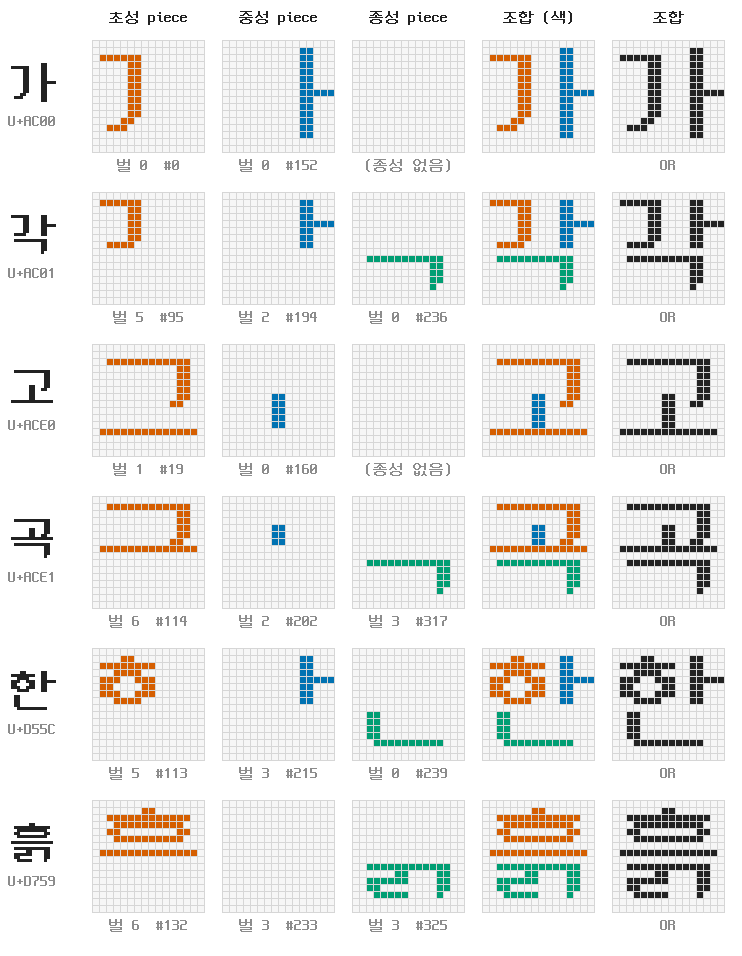
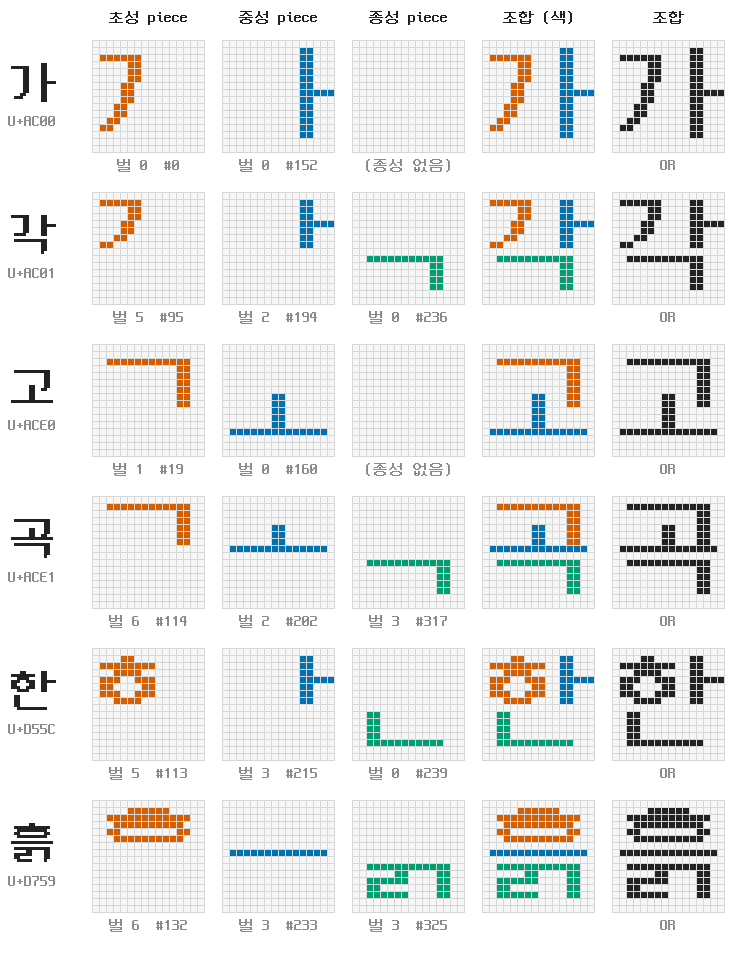
WIP docs/jamo-sets: Unicode, encoding forms, IoU, SANS8J (iolo 8x4x4, OFL/MIT) as the worked example (GPT-SOL, t_9de1eebd)

diff --git a/tools/doc_figures_jamo.py b/tools/doc_figures_jamo.py
@@ -3,9 +3,9 @@
 
   python3 -I tools/doc_figures_jamo.py [--out DIR] [--check]
 
-Reads two SIL OFL 1.1 faces of svf/ and nothing else: svf/dos/NEODG16A.SVF (Neo Dunggeunmo, a 16x16 1 bpp jamo set in
-the 8x4x4 layout, JSET version 1) and svf/dos/NEODG16.SVF (the same font precomposed, 16x16 1 bpp, ASCII and
-KS X 1001 without Hanja). Every label is drawn with NEODG16's own glyphs, so no system font is read. No Apple or ROM
+Reads two SIL OFL 1.1 faces of svf/ and nothing else: svf/iolo/SANS8J.SVF (Neo Dunggeunmo, a 16x16 1 bpp jamo set in
+the 8x4x4 layout, JSET version 1) and svf/dos/NEODG16.SVF (the comparison face is Neo Dunggeunmo precomposed, 16x16 1 bpp, ASCII and
+KS X 1001 without Hanja). Labels use the comparison face glyphs, so no system font is read. No Apple or ROM
 data is read: the figures may be published with the faces' OFL notes (svf/dos/NEODGM.TXT, svf/dos/OFL.TXT).
 
 Writes into DIR (default docs/images/jamo-sets/):
@@ -35,7 +35,7 @@ try:
 except ImportError:  # pragma: no cover
     Image = ImageDraw = None
 
-JAMO_FACE = "svf/dos/NEODG16A.SVF"
+JAMO_FACE = "svf/iolo/SANS8J.SVF"
 PRE_FACE = "svf/dos/NEODG16.SVF"
 ALLOWED = (JAMO_FACE, PRE_FACE)  # OFL faces only (web/LICENCES.tsv: dos/NEODG*)
 
@@ -392,7 +392,7 @@ def main(argv=None):
         return 2
     fc, out = render_all()
     n, exact, iou = compare(fc)
-    print(f"KS X 1001 syllables {n}: NEODG16A composes {exact} exactly like NEODG16, mean IoU {iou:.4f}")
+    print(f"KS X 1001 syllables {n}: SANS8J composes {exact} exactly like comparison face, mean IoU {iou:.4f}")
     bad = 0
     for name, data in out.items():
         path = os.path.join(a.out, name)

diff --git a/docs/jamo-sets.md b/docs/jamo-sets.md
@@ -20,9 +20,8 @@ This document covers, in order:
 4. The constraints on small-memory targets (MCUs): readers per build, code size, table size, blocks a build cannot read,
    streaming, speed, and how to choose (chapters 7-8).
 
-**Figure faces.** Every pixel figure is drawn from `svf/dos/NEODG16A.SVF` (Neo Dunggeunmo, 16x16 1 bpp, an 8x4x4 jamo set,
-JSET version 1) and `svf/dos/NEODG16.SVF` (the same font precomposed). Both are SIL OFL 1.1 (`svf/dos/NEODGM.TXT`, the row
-`dos/NEODG*` of `web/LICENCES.tsv`). `python3 -I tools/doc_figures_jamo.py` makes them; it writes the same bytes on every
+**Figure faces.** Every pixel figure is drawn from `svf/iolo/SANS8J.SVF` (iolo SANS8J Gothic, 16x16 1 bpp, an original 8x4x4 jamo set,
+JSET version 1) and `svf/dos/NEODG16.SVF` (the same font precomposed). SANS8J is from iolo 8x4x4-fonts under OFL-1.1/MIT (`svf/iolo/IOLO.TXT`). `python3 -I tools/doc_figures_jamo.py` makes them; it writes the same bytes on every
 run, and `--check` verifies that.
 
 ## Contents
@@ -91,6 +90,33 @@ ISO 2022's primary set is G0; auxiliary sets are G1–G3. EUC uses SS2 (0x8E) an
 | EUC-KR 0xA1–0xFE × 0xA1–0xFE | KS X 1001 94×94 table | 2,350 Hangul syllables |
 | CP949 extension 0x81–0xC6 × (0x41–0x5A, 0x61–0x7A, 0x81–0xFE) | additional 8,822 syllables | outside EUC-KR pairs |
 | Johab (CP1361) | composed-form fields | not an ISO 2022/EUC encoding |
+
+### 1.1.2 Unicode and encoding forms
+
+Unicode defines code points U+0000..U+10FFFF. Its 17 planes are numbered 0..16: plane 0 is the BMP (U+0000..U+FFFF), and planes 1..16 are supplementary planes. ISO/IEC 10646 (UCS) standardizes the same characters and code points; Unicode and UCS maintain that repertoire jointly. Planes 15 and 16 contain private-use areas. SVF jamo pieces use private-use code points U+F0000+n in plane 15, which are not interpreted as ordinary characters.
+
+Hangul has both models. Precomposed syllables occupy U+AC00..U+D7A3 (11,172), laid out by the arithmetic formula in section 1.3. Conjoining jamo use three characters from Hangul Jamo U+1100..U+11FF: 한 is U+1112 U+1161 U+11AB. Hangul Compatibility Jamo U+3131..U+318E are standalone compatibility letters, as used by KS X 1001; Hangul Jamo Extended-A and Extended-B contain Old Hangul jamo. An L·V·T sequence and its precomposed syllable are canonically equivalent. NFC composes L·V·T and NFD decomposes the syllable [11].
+
+An SVF syllable face is keyed by U+AC00..U+D7A3. A conjoining sequence arriving in UTF-8 must be normalized to NFC or shaped before lookup; otherwise three code points do not select one syllable glyph.
+
+Encoding forms turn code points into bytes. UCS-2 stores only the BMP in 16 bits; UTF-16 uses surrogate pairs for planes 1..16 (U+F0000 therefore needs a pair). UCS-4/UTF-32 stores every code point in 32 bits. UTF-8 uses 1–4 self-synchronizing bytes and remains ASCII-compatible. UTF-16LE/BE and UTF-32 specify byte order; a BOM (U+FEFF) can signal that order [12][13].
+
+| Character | EUC-KR | CP949 | Johab | UTF-8 | UTF-16LE | UTF-16BE | UTF-32 | Cannot represent |
+|---|---|---|---|---|---|---|---|---|
+| A U+0041 | 41 | 41 | 41 | 41 | 41 00 | 00 41 | 41 00 00 00 | — |
+| 한 U+D55C | C7 D1 | C7 D1 | D0 65 | ED 95 9C | 5C D5 | D5 5C | 5C D5 00 00 | — |
+| ㄱ U+3131 | A4 A1 | A4 A1 | 88 41 | E3 84 B1 | 31 31 | 31 31 | 31 31 00 00 | — |
+| 한 (LVT) U+1112 U+1161 U+11AB | — | — | — | E1 84 92 E1 85 A1 E1 86 AB | 12 11 61 11 AB 11 | 11 12 11 61 11 AB | 12 11 00 00 61 11 00 00 AB 11 00 00 | EUC-KR, CP949, Johab |
+| U+F0000 | — | — | — | F3 B0 80 80 | 80 DB 00 DC | DB 80 DC 00 | 00 00 0F 00 | EUC-KR, CP949, Johab |
+
+```mermaid
+flowchart LR
+  C["character: 한 or LVT"] --> P["code points<br/>U+D55C or U+1112 U+1161 U+11AB"]
+  P --> F["encoding form<br/>EUC, CP949, UTF-8, UTF-16, UTF-32"]
+  F --> B["bytes"]
+  B --> S["SVF input<br/>UTF-8 text → svf_draw_utf8 → code points"]
+  S --> V["lookup U+AC00..U+D7A3<br/>or normalize/shape first"]
+```
 
 ### 1.2 The bit layout of the 16-bit johab code
 
@@ -221,7 +247,7 @@ johab font is **360 pieces x 32 bytes = 11,520 bytes** (`notes/dos.md` "Format f
 The piece file sizes are in `notes/dos.md`; the precomposed columns are syllables x cell bytes. SVF shows the same thing:
 for Neo Dunggeunmo at 16 px the precomposed `NEODG16.SVF` is 133,720 bytes (2,905 glyphs: 95 ASCII, 2,803 KS X 1001
 characters, and 7 syllables outside KS, 갷 닏 떄 섥 슺 텊 햝; the KS characters include U+212B Å of KS row A1, which the
-source TTF lacks: `tools/build/faces.tsv`), and the 8x4x4 jamo set `NEODG16A.SVF` is **16,408 bytes** (440 glyphs, 344 of them pieces) and
+source TTF lacks: `tools/build/faces.tsv`), and the 8x4x4 jamo set `SANS8J.SVF` is **15,740 bytes** (439 glyphs, 344 pieces) and
 draws all 11,172 (read with `jamoset.parse_svfn`, as `tools/doc_figures_jamo.py` does).
 
 ### 2.2 Sets: a jamo's shape depends on where it sits
@@ -257,15 +283,15 @@ flowchart LR
 One set is 640 bytes of initials (20 x 32), 704 of medials (22 x 32), 896 of finals (28 x 32) (the same note). The last box
 (copy to the screen) is this document's; the note covers the steps up to the OR.
 
-![가 각 고 곡 한 흙: initial (vermillion), medial (blue) and final (green) pieces and their OR; NEODG16A, one square = one pixel](images/jamo-sets/compose.png)
+![가 각 고 곡 한 흙: initial (vermillion), medial (blue) and final (green) pieces and their OR; SANS8J, one square = one pixel](images/jamo-sets/compose.png)
 
-*Figure 1. Pieces and composition in NEODG16A. "벌 n #p" is the piece's set and its SVF piece number (chapter 4). The ㄱ of
+*Figure 1. Pieces and composition in SANS8J. "벌 n #p" is the piece's set and its SVF piece number (chapter 4). The ㄱ of
 가 and 각 (sets 0 and 5) and of 고 and 곡 (sets 1 and 6) changes with the final; the ㅗ of 고 and 곡 is a different piece
 too (medial sets 0 and 2: without and with a final). The medial piece 233 of 흙 is empty: fitting this face put ㅡ's stroke
 into the initial piece 132 (section 4.3). Column headings: 초성 = initial, 중성 = medial, 종성 = final, 조합 (색) =
 composed (in colour), 조합 = composed; "벌 n" = set n, "(종성 없음)" = no final.*
 
-One 16x16 cell split into its pieces (NEODG16A's 한: `I` initial piece 113, `M` medial piece 215, `F` final piece 239,
+One 16x16 cell split into its pieces (SANS8J's 한: `I` initial piece 113, `M` medial piece 215, `F` final piece 239,
 `.` blank; no pixel is shared):
 
 ```
@@ -358,11 +384,11 @@ flowchart TD
 ```
 
 "ㄱ or ㅋ" is `KK = (0, 15)`; as its comment says, "gg is NOT in the group" (ㄲ is not). `tools/doc_figures_jamo.py` checks,
-while drawing figure 2, that each example syllable really uses that set in NEODG16A's tables.
+while drawing figure 2, that each example syllable really uses that set in SANS8J's tables.
 
 ![the initial ㄱ in its 8 sets, the medials ㅏ and ㅗ in their 4 sets, the final ㄱ in its 4 sets, each with a syllable that uses it](images/jamo-sets/sets.png)
 
-*Figure 2. NEODG16A's sets. The initial ㄱ differs in every set. The medial ㅏ is shorter with a final (sets 2, 3); in this
+*Figure 2. SANS8J's sets. The initial ㄱ differs in every set. The medial ㅏ is shorter with a final (sets 2, 3); in this
 font ㅏ has the same bitmap after ㄱ/ㅋ (sets 0, 2) as after the others (1, 3), and ㅗ does not. The final ㄱ has the same
 bitmap in sets 1 and 3. Labels: 초성 = initial, 중성 = medial, 종성 = final, 벌 = set. Equal bitmaps still have their own
 piece numbers: of the 344 pieces, 270 bitmaps are distinct
@@ -416,7 +442,7 @@ systems by its own rule (chapter 4).
 - **IBM PC DOS HBIOS V3.0**: `$KGOZN16`/`$KMYZN16` are 360 x 32-byte 8x4x4 sets; `$KMYZN24` is a 360-piece set plus the
   2,350 precomposed syllables (`notes/os.md`).
 - **Dokkaebi**: `DKBBG.FNT` (15,584 bytes) is an 11,520-byte 8x4x4 set plus 127 symbols, and the driver `DKBB.COM` holds
-  the same bytes at offset 96 (`notes/hanme-dokkaebi.md` section 2). The repository finds the font inside the driver and
+  the same bytes at offset 96 (`notes/hanme-dokkaebi.md` section 2). Driver analysis finds the font inside the driver and
   makes a jamo set of it (`docs/recipes.md` "Dokkaebi: the font inside the driver"). The DKB3 form (912 glyphs) stores the
   initial+medial pairs precomposed and ORs only the final: fewer overlays, more glyphs (the same note, 2.1).
 - **NKP** (a Hercules TSR, 1989) stores only the rows a piece needs, not the full cell, saving bytes; each piece record
@@ -426,14 +452,14 @@ systems by its own rule (chapter 4).
 
 The three Korean VGA cards of the 86Box ROM set (Trigem, Kasan, ATI) each have a 512 KB KS C 5601 font ROM of 16,384
 32-byte slots, a 128 x 128 grid: **a precomposed grid**, not a johab font; 가 is slot 0x1821 (`docs/recipes.md` "Korean VGA
-font ROMs (86Box)"). The repository can fit an 8x4x4 jamo set to that precomposed face, but many syllables are not drawn
+font ROMs (86Box)"). The tools can fit an 8x4x4 jamo set to that precomposed face, but many syllables are not drawn
 as an OR of pieces, and the IoU stays at 0.968 / 0.872 / 0.919. Korean MS-DOS 6.22 is the opposite case: its font file
 `HFONT.SYS` has no syllables and HBIOS composes them from its own jamo set (section 1.4).
 
 ### 3.3 Mac: rules (HangulTalk 1.0) and a table (HangulTalk 7.1.x)
 
 - **HangulTalk 1.0** (System 4.1) `fbit` fonts (Gotic12, Munjo12/16/24) hold 45 glyph sets; the composition rule is the
-  18 selection tables of the 68k 'fdef' driver (`notes/mac.md` "Format 1"). That is a rule. The repository's
+  18 selection tables of the 68k 'fdef' driver (`notes/mac.md` "Format 1"). That is a rule. The project's
   `--layout mac-fbit-45sets` moves it into a JSET as it is: Munjo24 gives 653 pieces, 8 lead x 4 tail classes, 20/15/4
   sets, 36,660 bytes, and all 11,172 syllables equal that rule (`docs/recipes.md` "Classic Mac Korean bitmap fonts").
 - **HangulTalk 7.1.x** Seoul12, AppleGothic12/24 and AppleMyungjo12/24 are `fbit` type 3: 482 glyphs (2 banks x 241) and
@@ -475,7 +501,7 @@ cannot be composed.
 - **Daewoo MSX CPC-300/400S**: the upper 16 KB of the extension ROM hold 6 initial sets x 20, 2 medial sets x 28 and
   2 final sets x 29 pieces, the selection read from the Hangul BASIC ROM routine (`notes/msx.md`).
 - **OS/2 Warp 4 Korean** system DBCS fonts hold the precomposed set (all of KS X 1001), compressed with a Huffman code and
-  a prediction (`notes/os2-dbcs.md`); the repository decodes them into a precomposed face and fits jamo sets to it
+  a prediction (`notes/os2-dbcs.md`); the tools decode them into a precomposed face and fits jamo sets to it
   (`docs/recipes.md` "OS/2 Korean fonts (완성형) to a precomposed face and a jamo set").
 
 ## 4. Jamo sets in SVF: JSET version 1
@@ -513,14 +539,14 @@ The JSET block is where the SVFN header's bytes 36 (offset) and 40 (size) say; h
 values are little-endian (`spec/SVF.md` "Jamo-set fonts").
 
 Where the JSET sits in a whole SVFN file. The header's offset fields point at each table; their order may differ between
-files. The numbers in brackets are NEODG16A's (16,408 bytes; `spec/SVF.md` "Cells, layout bytes and reserved bytes"; the
+files. The numbers in brackets are SANS8J's (15,740 bytes; `spec/SVF.md` "Cells, layout bytes and reserved bytes"; the
 header read with `HEADER3` of `jamoset.py`).
 
 ```mermaid
 flowchart TD
   H["header, 48 bytes<br/>magic SVFN, version 3, flags 7<br/>(bit 0 metrics, bit 1 JSET, bit 2 marks)"]
   H -->|"byte 32"| C["code point table (48)<br/>440 x (u32 cp, u32 glyph)<br/>U+F0000 + n here too"]
-  H -->|"bytes 36, 40"| J["JSET block (3,568, 1,101 bytes)"]
+  H -->|"bytes 36, 40"| J["JSET block (3,560, 1,101 bytes)"]
   H -->|"byte 20"| M["metrics table (4,672)<br/>440 x 4 bytes"]
   H -->|"byte 44"| O["glyph offset table (6,432)<br/>441 entries"]
   H -->|"bytes 24, 28"| D["glyph data (8,196, 8,212 bytes)<br/>records: x0 y0 wb h + rows"]
@@ -561,7 +587,7 @@ The size is `12 + 19 + 28 + 3 x LC x 21 x TC + 2 x (NI x 19 + NM x 21 + NF x 27 
 | System | LC x TC | NI / NM / NF | v1 block | Real face |
 |---|---|---|---:|---|
 | 6x2x1 | 1 x 2 | 6 / 2 / 1 | 653 | JSET of `svf/dos/NEODG16G.SVF`: 653 |
-| 8x4x4 | 2 x 2 | 8 / 4 / 4 | 1,101 | JSET of `svf/dos/NEODG16A.SVF`: 1,101 |
+| 8x4x4 | 2 x 2 | 8 / 4 / 4 | 1,101 | JSET of `svf/iolo/SANS8J.SVF`: 1,101 |
 | SEOUL12J (section 6.4) | 8 x 4 | 9 / 6 / 3 | 2,933 | 2,933 |
 | 8 x 8, 24/16/16 | 8 x 8 | 24 / 16 / 16 | 6,641 | `svf/jamo-extra/SGDAY16.SVF`: 6,641 |
 | 12 x 12, 24/16/16 | 12 x 12 | 24 / 16 / 16 | 11,681 | `svf/jamo-extra/GOTHA16.SVF` and others: 11,681 |
@@ -571,9 +597,9 @@ The size is `12 + 19 + 28 + 3 x LC x 21 x TC + 2 x (NI x 19 + NM x 21 + NF x 27 
 The real-face column comes from reading every face of `svf/dos` and `svf/jamo-extra` with `jamoset.unpack`. Every jamo
 face of `svf/` is version 1 (`spec/SVF.md` "When to use version 2").
 
-### 4.3 Following one syllable through a real face: 한 in NEODG16A
+### 4.3 Following one syllable through a real face: 한 in SANS8J
 
-`svf/dos/NEODG16A.SVF` (16,408 bytes, 16x16 1 bpp, 440 glyphs) has its JSET block at file offset 3,568, 1,101 bytes long,
+`svf/iolo/SANS8J.SVF` (15,740 bytes, 16x16 1 bpp, 439 glyphs) has its JSET block at file offset 3,560, 1,101 bytes long,
 read with `parse_svfn` and `unpack` of `tools/jamoset.py` (`python3 -I`).
 
 **First 12 bytes:** `4a 53 45 54 | 01 00 | 02 | 02 | 08 | 04 | 04 | 10` = "JSET", version 1, LC 2, TC 2, NI 8, NM 4, NF 4,
@@ -621,16 +647,16 @@ e.g. ㄱ -> 0, ㄳ -> 238 (final set 0), ㅏ -> 152.
 | Step | Computation | Value | Block offset (file offset) |
 |---|---|---|---|
 | 1. decompose | s = 0xD55C - 0xAC00 = 10,588 | L = 18 (ㅎ), V = 0 (ㅏ), T = 4 (ㄴ) | |
-| 2. classes | leadClass[18], tailClass[4] | lc = 1, tc = 1 | 30 (3,598), 35 (3,603) |
+| 2. classes | leadClass[18], tailClass[4] | lc = 1, tc = 1 | 30 (3,590), 35 (3,595) |
 | 3. cell | (1 x 21 + 0) x 2 + 1 | cell = 43 | |
-| 4. sets | initSet[43], medSet[43], finSet[43] | 5, 3, 0 | 102 (3,670), 186 (3,754), 270 (3,838) |
-| 5. pieces | initPiece[5 x 19 + 18 = 113], medPiece[3 x 21 + 0 = 63], finPiece[0 x 27 + 4 - 1 = 3] | 113, 215, 239 | 537 (4,105), 741 (4,309), 789 (4,357) |
+| 4. sets | initSet[43], medSet[43], finSet[43] | 5, 3, 0 | 102 (3,662), 186 (3,746), 270 (3,830) |
+| 5. pieces | initPiece[5 x 19 + 18 = 113], medPiece[3 x 21 + 0 = 63], finPiece[0 x 27 + 4 - 1 = 3] | 113, 215, 239 | 537 (4,097), 741 (4,301), 789 (4,349) |
 | 6. glyphs | U+F0000 + n | U+F0071, U+F00D7, U+F00EF | looked up in the code point table |
 | 7. compose | OR of the three cells | the 16x16 picture of 2.2 | |
 
 ![the JSET version 1 lookup of 한: class tables, cell 43 of the three set tables, the three pieces and their OR](images/jamo-sets/lookup.png)
 
-*Figure 3. Looking up 한 in NEODG16A. The yellow cells are the ones read. Labels: 초성 = initial, 중성 = medial, 종성 = final,
+*Figure 3. Looking up 한 in SANS8J. The yellow cells are the ones read. Labels: 초성 = initial, 중성 = medial, 종성 = final,
 셀 = cell; the first line reads "initial ㅎ = 18, medial ㅏ = 0, final ㄴ = 4".*
 
 **쀍 (U+C00D, not in KS):** L = 8 (ㅃ), V = 15 (ㅞ), T = 9 (ㄺ); lc = 1, tc = 1; cell = (21 + 15) x 2 + 1 = 73; sets 7, 3, 2;
@@ -665,17 +691,14 @@ returns the composed cell (`docs/c-renderer-guide.md` chapter 10).
 
 ### 4.4 Is it the same as the precomposed face?
 
-NEODG16A is the Neo Dunggeunmo TTF rasterised at 16 px and fitted to 8x4x4 (`tools/build/faces.tsv`: `jamoset ...
---layout 844`). `tools/doc_figures_jamo.py` compares the KS 2,350 with the precomposed `NEODG16`: **all 2,350 are
-pixel-identical** (mean IoU 1.0000), because the original is a pixel font drawn with pieces in mind. A rasterised outline
-font is not: NanumGothic Bold at 16 px fitted to 8x4x4 gave IoU 0.795 and 126 exact syllables (`docs/recipes.md`
-"Choosing the number of sets (벌 수)").
+SANS8J is the original iolo 8x4x4 bitmap face, converted from its SANS .fnt source with `jamoset.py --layout 844 --check`.
+The figure script compares it with the unrelated precomposed `NEODG16` only as an illustration; no precomposed SANS8J twin is distributed. A rasterised outline font fitted to 8x4x4 can lose fidelity: NanumGothic Bold at 16 px gave IoU 0.795 and 126 exact syllables (`docs/recipes.md` "Choosing the number of sets (벌 수)").
 
-![the same syllables: precomposed NEODG16, 8x4x4 NEODG16A, and their difference](images/jamo-sets/precomposed.png)
+![comparison example: precomposed NEODG16 and 8x4x4 SANS8J](images/jamo-sets/precomposed.png)
 
-*Figure 4. Top: precomposed. Middle: composed from the jamo set. Bottom: difference (grey = both, orange = precomposed
-only, sky blue = jamo set only); 0 pixels for every syllable of this font. Labels: 완성형 = precomposed, 조합형 = jamo set,
-차이 = difference; legend 둘 다 = both, 완성형에만 = precomposed only, 조합형에만 = jamo set only.*
+*Figure 4. Top: the comparison precomposed face. Middle: SANS8J composition. Bottom: their difference (grey = both,
+orange = comparison only, sky blue = SANS8J only). Because the sources differ, this is an illustration rather than a
+quality claim. Labels: 완성형 = precomposed, 조합형 = jamo set, 차이 = difference.*
 
 ### 4.5 Validation
 
@@ -741,11 +764,11 @@ bytes always hold; `cell_set`).
 
 **Why it is slower.** Version 1 reads a cell as a byte and a piece as a u16. Version 2 fetches two bytes, shifts and masks
 for each set number, and counts the presence bits below a slot for each piece (`popcount(presenceBits & ~aliasBits &
-below(j))`); the Pico cost is in 5.3. The 66 jamo faces of this open repository's `svf/` (all version 1) in version 2
+below(j))`); the Pico cost is in 5.3. The 66 jamo faces of this project's `svf/` (all version 1) in version 2
 would take the JSET bytes from 621,312 to 301,767; `--jset-version auto`, which writes version 2 only when it saves at least
 1,024 bytes (`jamoset.choose_jset_version`), changes 57 faces and gives 308,871 (measured in memory with `jamoset.unpack`
 and `pack_jset` on 2026-11-26). The 95 faces / 652,431 / 310,160 / 58 faces / 337,695 of `spec/SVF.md` "When to use
-version 2" were measured on the original repository's 95 faces.
+version 2" were measured on the source project's 95 faces.
 
 ### 5.2 BIG: only the limits
 
@@ -762,8 +785,8 @@ The class limits were 8 and 8 until 2026-10 (largest block 6,641 bytes) and 12 a
 
 From `c/bench/MEASUREMENTS.md` "Before -> after JSET v1 + v2", rp2040js at 125 MHz, MONO_PAGE `-Os`, cycles per
 iteration. BASE is the version 1 reader of main before the change, "v1 face" the version 1 face in the current build,
-"v2 copy" a version 2 copy of the same face. The face is HGKEY6J (6x2x1, not in the open repository). Converting the 8x4x4
-NEODG16A to version 2 takes its JSET from 1,101 to 272 bytes and the file from 16,408 to 15,576 bytes (`docs/recipes.md`
+"v2 copy" a version 2 copy of the same face. The face is HGKEY6J (6x2x1, not in the project). Converting the 8x4x4
+SANS8J to version 2 takes its JSET from 1,101 to 272 bytes and the file from 15,740 to 15,576 bytes (`docs/recipes.md`
 "An existing SVF").
 
 | Case | BASE | v1 face | v2 copy | v2 vs BASE | v2 vs v1 face |
@@ -928,11 +951,11 @@ status bits (`spec/SVF.md` "Reader statuses", `c/include/svf.h` lines 75-86):
 ### 6.4 Seoul12: one font, two structures
 
 Seoul12 (12 px) of Mac HangulTalk 7.1.x can be put into SVF both ways, which makes it a good comparison. It is Apple data:
-no byte of it is in this repository and no image of it is shown here. The numbers below are the measurements recorded on
+no byte of it is in the project and no image of it is shown here. The numbers below are the measurements recorded on
 `docs/recipes.md` "Classic Mac Korean bitmap fonts", and `c/ports/arduino/presets/seoul12.manifest`
-of the original (private) repository.
+of the source project.
 
-**A note on the name.** "SEOUL12J" here is the name the original repository's manifest and Uno presets use: the
+**A note on the name.** "SEOUL12J" here is the name the source project's manifest and Uno presets use: the
 **derived** face (rule form, with Latin, 12,624 bytes). The command examples of `docs/recipes.md` "Classic Mac Korean bitmap
 fonts" give the same name `SEOUL12J.SVF` to the **direct** output (JMAP) and `SEOUL12D.SVF` to the derived one. The table
 calls them "original structure" (direct) and "SEOUL12J" (derived), and compares sizes with and without Latin alike.
@@ -991,7 +1014,7 @@ and a rule-form block that uses the Mac slots as pieces directly may be possible
 its block size, its composition and what it does with the syllables outside KS are all open.
 
 **Shrunk for MCUs.** The Uno presets of Seoul12 are SEOUL12J shrunk with `tools/jamomerge.py merge` (the original
-repository's `c/ports/arduino/README.md` "Seoul presets", `presets/seoul12.manifest`); all are SVFN v3 `mcu-strict`, JSET
+project's `c/ports/arduino/README.md` "Seoul presets", `presets/seoul12.manifest`); all are SVFN v3 `mcu-strict`, JSET
 version 1, ASCII included.
 
 ```mermaid
@@ -1003,8 +1026,8 @@ flowchart LR
   R1 --> S5["S5K 5,548<br/>(where no move was left)"]
 ```
 
-(The values of `c/ports/arduino/README.md` "Seoul presets" and `presets/seoul12.manifest` in the original repository; the
-one second merge writes S7K, S6K and S5K. This repository's plan `docs/superpowers/plans/2026-10-26-jset-v3-jmap-big.md`
+(The values of `c/ports/arduino/README.md` "Seoul presets" and `presets/seoul12.manifest` in the source project; the
+one second merge writes S7K, S6K and S5K. The project plan `docs/superpowers/plans/2026-10-26-jset-v3-jmap-big.md`
 predates them and gives S8K = 8,136 (rec1/SM8K) and a second merge `--soft --points 7168 6144`; the README corrected the
 second merge to `--start-soft --points 7168 6144 4096` after the original run's logs, kept the 8,136-byte face as S8K0 and
 made the 8,160-byte face with merge 42 reverted the S8K.)
@@ -1017,8 +1040,8 @@ made the 8,160-byte face with merge 42 reverted the S8K.)
 | S5K | 5,548 | 19,118 |
 | (input) SEOUL12J | 12,624 | |
 
-Being derived from Apple data, the faces **never enter git**; the repository keeps names, sizes and sha256 only. This open
-repository leaves the Uno Seoul presets out entirely (`docs/STATUS.md`, the note on the open edition).
+Being derived from Apple data, the faces **never enter git**; the project records names, sizes and sha256 only. This open
+the project does not include the Uno Seoul presets (`docs/STATUS.md`, the note on the open edition).
 
 ## 7. MCU constraints
 
@@ -1265,7 +1288,7 @@ structure draws only the KS 2,350.
 | Budget (flash for the face) | Recommended form | Reader | Example |
 |---|---|---|---|
 | about 6-11 KB, 2 KB of RAM (Uno class) | a JSET v1 with few sets (6x2x1, or a shrunk 8x4x4) | v1 only (the AVR default) | `NEODG16G` 6x2x1: file 10,684, 10,124 in `mcu-strict`, Uno image 23,676 text (`c/ports/arduino/README.md`); Seoul S5K-S8K 5,548-8,160 |
-| about 16-20 KB | 8x4x4 JSET v1 | v1 | `NEODG16A` 16,408; 16 px 8x4x4 sets made from DOS raw fonts, ROMs and OS/2: 15,556-18,576 (`docs/recipes.md`) |
+| about 16-20 KB | 8x4x4 JSET v1 | v1 | `SANS8J` 15,740; 16 px 8x4x4 sets made from DOS raw fonts, ROMs and OS/2: 15,556-18,576 (`docs/recipes.md`) |
 | a face with big tables (12 x 12 classes) in flash or RAM | the same face as JSET v2 | v2 (+535 B on M0+) | 11,681 -> 5,324 + aliases; composition 6-10 % slower (5.3) |
 | streaming (SD and the like), tight RAM | v2 + a syllable cache | v2 | the JSET region sits in the tables buffer |
 | a large MCU (hundreds of KB of flash) | an adaptive JSET v1, BIG if needed | v1 (+BIG) | `svf/jamo-extra/GOTHA16.SVF` 60,992 |
@@ -1336,3 +1359,7 @@ In order:
 [8] [Unicode Standard, Hangul syllables](https://www.unicode.org/versions/Unicode16.0.0/core-spec/chapter-3/#G3307)
 [9] [Wikipedia: Johab](https://en.wikipedia.org/wiki/Johab)
 [10] [Korean Standards Association, KS X 1001](https://standard.go.kr)
+[11] [Unicode Standard, Chapter 3.12 Conjoining Jamo Behavior](https://www.unicode.org/versions/Unicode16.0.0/core-spec/chapter-3/#G24649)
+[12] [Unicode Standard, Chapter 2.5 Encoding Forms](https://www.unicode.org/versions/Unicode16.0.0/core-spec/chapter-2/#G25564)
+[13] [Unicode Standard, Chapter 2.6 Encoding Schemes](https://www.unicode.org/versions/Unicode16.0.0/core-spec/chapter-2/#G12709)
+[14] [iolo 8x4x4-fonts](https://github.com/iolo/8x4x4-fonts)

diff --git a/c/ports/FACES.md b/c/ports/FACES.md
@@ -15,3 +15,5 @@ glyph data (`svfdump info` `data_size`): `NEODG16G` 10,124 and 5,512 bytes (10,6
 > Copyright (c) 2024 PT& (www.designptn.com), Paperlogy; redesigned by Lee Juim, Hangul glyphs from
 > Gmarket Sans, Latin from Montserrat (as stated in the font file's name table: copyright, designer and
 > licence entries of Paperlogy-4Regular.ttf, version 1.000).
+
+| `svf/iolo/SANS8J.SVF` (16 px 1 bpp 8x4x4 jamo set) | iolo 8x4x4-fonts original SANS.FNT, 2025 | Copyright (c) 2025 Dongsu Jang | SIL OFL 1.1 and MIT | `svf/iolo/IOLO.TXT`, `LICENSE-OFL.txt`, `LICENSE-MIT.txt` | converted with `jamoset.py --layout 844 --check` |
